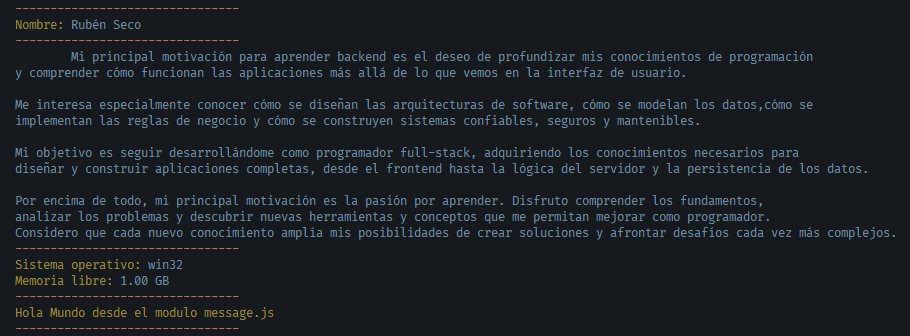
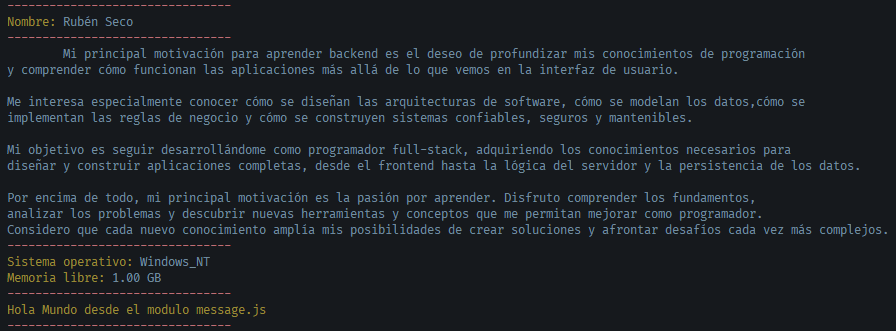
Update app.js to use os.type() instead of os.platform() for system information. Modify README.md to improve screenshot caption. Update console.png asset for consistency.

diff --git a/app.js b/app.js
@@ -15,7 +15,7 @@ console.log(text("\tMi principal motivación para aprender backend es el deseo d
 
 console.log(separator("--------------------------------"));
 
-console.log(label(`Sistema operativo: `) + text(`${os.platform()}`));
+console.log(label(`Sistema operativo: `) + text(`${os.type()}`));
 
 console.log(label(`Memoria libre: `) + text(`${Math.round(os.freemem() / 1024 / 1024 / 1024).toFixed(2)} GB`));
 

diff --git a/README.md b/README.md
@@ -16,7 +16,7 @@ Comprender la ejecución de código JavaScript fuera del navegador y aplicar el 
 
 ### Capturas de pantallas:
 
-![Captura de pantalla 1](./assets/console.png)
+![Captura de pantalla](./assets/console.png)
 
 ### Pasos para la ejecución local:
 
